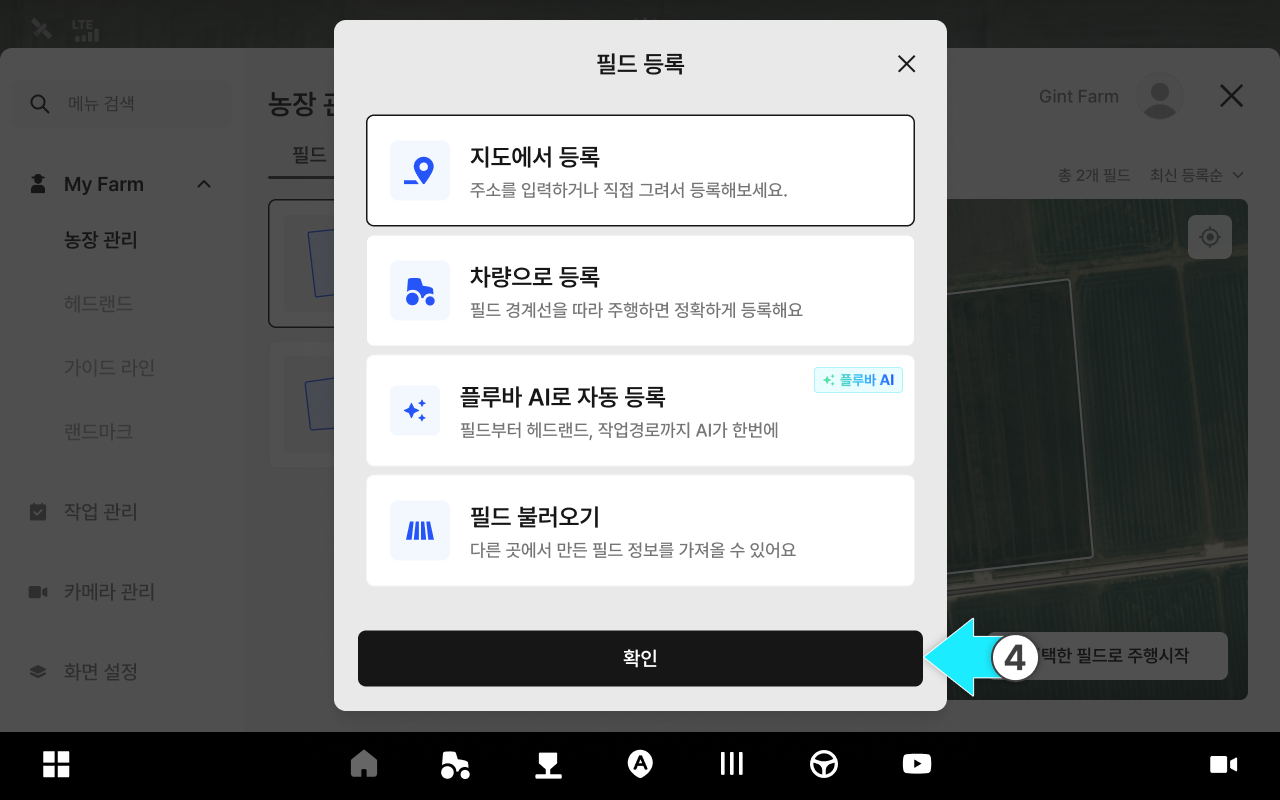
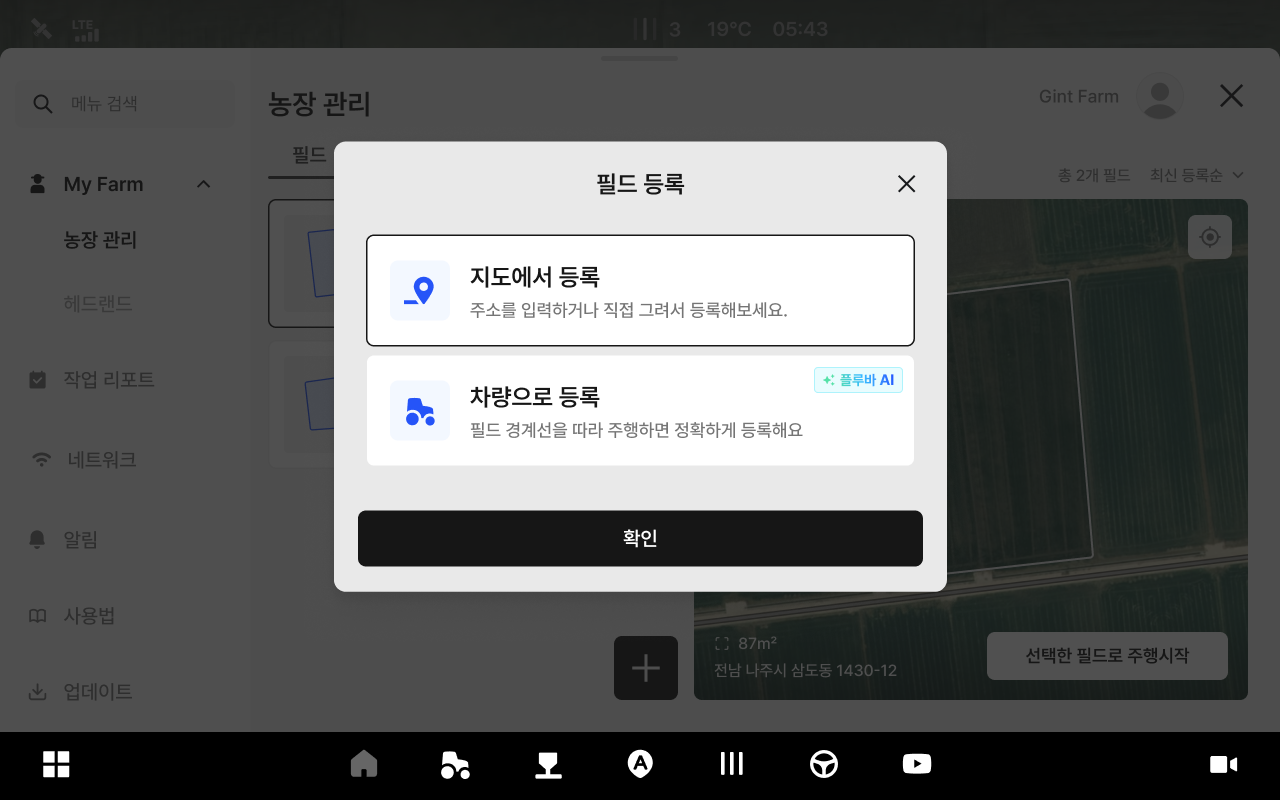
GITBOOK-17: No subject

diff --git a/ion-servicemanual-kr/order-installation/quick-setup/farm-setting.md b/ion-servicemanual-kr/order-installation/quick-setup/farm-setting.md
@@ -75,15 +75,27 @@ metaLinks:
 {% endstep %}
 
 {% step %}
+옵션을 선택한 후 \[확인]을 누릅니다.
+
+<figure><img src="../../.gitbook/assets/field-registration-4.png" alt=""><figcaption></figcaption></figure>
+{% endstep %}
+{% endstepper %}
+
+***
+
+#### 지도에서 등록
+
+{% stepper %}
+{% step %}
 지도에서 등록 옵션을 선택한 후 \[확인]을 누릅니다.
 
-<figure><img src="../../.gitbook/assets/quick-add-field-2.png" alt=""><figcaption></figcaption></figure>
+<figure><img src="../../.gitbook/assets/map-registration-1.png" alt=""><figcaption></figcaption></figure>
 {% endstep %}
 
 {% step %}
 지도에서 필드를 선택합니다.
 
-<figure><img src="../../.gitbook/assets/quick-add-field-3.png" alt=""><figcaption></figcaption></figure>
+<figure><img src="../../.gitbook/assets/map-registration-2.png" alt=""><figcaption></figcaption></figure>
 
 {% hint style="info" %}
 기본 필드 등록은 \[지도에서 선택]으로 설정되어 있습니다. 경계를 직접 만들려면 \[직접 그리기]를 누릅니다.
@@ -93,16 +105,18 @@ metaLinks:
 {% step %}
 경계 생성 후 \[진입로 설정]을 누른 다음, 원하는 위치를 선택합니다.
 
-<figure><img src="../../.gitbook/assets/quick-add-field-4.png" alt=""><figcaption></figcaption></figure>
+<figure><img src="../../.gitbook/assets/map-registration-3.png" alt=""><figcaption></figcaption></figure>
+
+<figure><img src="../../.gitbook/assets/map-registration-3 (1).png" alt=""><figcaption></figcaption></figure>
 {% endstep %}
 
 {% step %}
 진입출로 위치 설정 팝업에서 \[같은 위치로 설정]을 선택합니다.
 
-<figure><img src="../../.gitbook/assets/quick-add-field-5.png" alt=""><figcaption></figcaption></figure>
+<figure><img src="../../.gitbook/assets/map-registration-4.png" alt=""><figcaption></figcaption></figure>
 
 {% hint style="info" %}
-진입/진출 위치가 다를 경우 \[진출로 따로 설정]을 선택합니다.
+\[진출로 따로 설정]을 선택한 경우, 진입/진출 위치를 각각 지정해야 합니다.
 
 <img src="../../.gitbook/assets/select-path-entry.png" alt="" data-size="original">
 {% endhint %}
@@ -111,17 +125,15 @@ metaLinks:
 {% step %}
 진출입로 설정이 완료되고 필드 정보를 입력한 뒤 \[등록]을 누릅니다.
 
-<figure><img src="../../.gitbook/assets/quick-add-field-6.png" alt=""><figcaption></figcaption></figure>
+<figure><img src="../../.gitbook/assets/map-registration-5.png" alt=""><figcaption></figcaption></figure>
 {% endstep %}
 
 {% step %}
 필드 등록이 완료됩니다.
 
-<figure><img src="../../.gitbook/assets/quick-add-field-7.png" alt=""><figcaption></figcaption></figure>
+<figure><img src="../../.gitbook/assets/map-registration-6.png" alt=""><figcaption></figcaption></figure>
 {% endstep %}
 {% endstepper %}
-
-***
 
 #### 지도에서 필드 등록 화면 설명
 
@@ -129,25 +141,25 @@ metaLinks:
 
 ![](../../.gitbook/assets/icon-square-1.svg) **주소 검색으로 필드 선택**
 
-*   주소를 검색하여 필드를 선택합니다. <br>
+* 주소 검색으로 필드를 선택합니다.
 
-    <figure><img src="../../.gitbook/assets/field-registration-screen-1.png" alt=""><figcaption></figcaption></figure>
+<div align="left"><figure><img src="../../.gitbook/assets/field-registration-screen-1.png" alt="" width="563"><figcaption></figcaption></figure></div>
 
 ![](../../.gitbook/assets/icon-square-2.svg) **직접 그리기**
 
-*   지도에 직접 점을 찍어 필드 영역을 생성합니다.<br>
+* 필드 영역을 직접 점을 찍어 생성합니다.
 
-    <figure><img src="../../.gitbook/assets/field-registration-screen-2.png" alt=""><figcaption></figcaption></figure>
+<div align="left"><figure><img src="../../.gitbook/assets/field-registration-screen-2.png" alt="" width="563"><figcaption></figcaption></figure></div>
 
-![](../../.gitbook/assets/icon-square-3.svg) **지도에서 선택**
+![](<../../.gitbook/assets/icon-square-3 (1).svg>) **지도에서 선택**
 
 * 지도에서 필드를 직접 눌러 선택합니다. \[지도에서 등록]이 기본으로 설정되어있습니다.
 
-![](../../.gitbook/assets/icon-square-4.svg) **이전**
+![](<../../.gitbook/assets/icon-square-4 (1).svg>) **이전**
 
 * 이전 단계로 돌아갑니다.
 
-![](../../.gitbook/assets/icon-square-5.svg) **다음**
+![](<../../.gitbook/assets/icon-square-5 (1).svg>) **다음**
 
 * 다음 단계로 넘어갑니다.
 
@@ -161,13 +173,14 @@ metaLinks:
 
 ![](../../.gitbook/assets/icon-square-8.svg) **진(출)입로 설정**
 
-* 진출입로 위치를 설정합니다. 필드를 선택한 후 해당 버튼을 사용할 수 있습니다. 진출입로는 같은 위치로 설정하거나, 각각 따로 설정할 수 있으며, 수정 버튼을 통해 위치를 변경할 수 있습니다.
+* 진출입로 위치를 설정합니다. 필드를 선택한 후 해당 버튼을 사용할 수 있습니다. 진출입로는 같은 위치로 설정하거나, 각각 따로 설정할 수 있으며, 수정 버튼을 통해\
+  위치를 변경할 수 있습니다.
 
 ![](../../.gitbook/assets/icon-square-9.svg) **경계 등록 완료**
 
 * 경계 등록을 완료합니다. 진출입로를 선택한 후 해당 버튼을 사용할 수 있습니다.
 
-***
+
 
 #### 지도에서 필드 등록 모달 설명
 
@@ -181,15 +194,125 @@ metaLinks:
 
 * 필드와 연결할 농장을 선택합니다.
 
-![](../../.gitbook/assets/icon-square-3.svg) **농장 소유자**
+![](<../../.gitbook/assets/icon-square-3 (1).svg>) **농장 소유자**
 
 * 필드와 연결할 농장 소유자를 선택합니다.
 
-![](../../.gitbook/assets/icon-square-4.svg) **작물**
+![](<../../.gitbook/assets/icon-square-4 (1).svg>) **작물**
 
 * 현재 필드에서 작업 중인 작물을 추가합니다.
 
-![](../../.gitbook/assets/icon-square-5.svg) **메모**
+![](<../../.gitbook/assets/icon-square-5 (1).svg>) **메모**
+
+* 추가적인 정보를 메모로 남깁니다.
+
+***
+
+#### 차량으로 등록
+
+차량을 직접 운전하여 필지 경계를 주행하면서 꼭지점을 설정하는 방법입니다. 지도에 표시되지 않은 필지나 경계가 불명확한 경우에 유용합니다.
+
+{% stepper %}
+{% step %}
+등록 옵션 선택 팝업에서 차량으로 등록을 선택하고 \[확인]을 누릅니다.
+
+<figure><img src="../../.gitbook/assets/field-add-vehicle-1 (1).png" alt=""><figcaption></figcaption></figure>
+{% endstep %}
+
+{% step %}
+차량으로 등록 화면에 진입합니다. 차량을 필드의 각 꼭지점으로 이동한 후 버튼을 눌러 점을 설정합니다.
+
+<figure><img src="../../.gitbook/assets/field-add-vehicle-2 (1).png" alt=""><figcaption></figcaption></figure>
+
+<figure><img src="../../.gitbook/assets/map-registration-3 (1).png" alt=""><figcaption></figcaption></figure>
+
+{% hint style="info" %}
+설정 직후 해당 점의 수정 버튼이 표시됩니다. 위치가 정확하지 않으면 수정 버튼으로 재설정합니다.
+{% endhint %}
+
+{% hint style="warning" %}
+꼭지점은 순서대로 설정해야 합니다. 임의의 순서로 설정하면 경계가 올바르게 생성되지 않습니다.
+{% endhint %}
+{% endstep %}
+
+{% step %}
+D점 이상 설정이 완료되면 차량을 진입출로 위치로 이동하고 진입로, 진출로 설정 버튼을 눌러 설정합니다.
+
+<figure><img src="../../.gitbook/assets/field-add-vehicle-3 (1).png" alt=""><figcaption></figcaption></figure>
+
+{% hint style="info" %}
+진출로는 작업 완료 후 차량이 빠져나가는 경로입니다. 나중에 수정할 수 있습니다.
+{% endhint %}
+
+{% hint style="info" %}
+점은 최대 6개 설정할 수 있습니다.
+{% endhint %}
+{% endstep %}
+
+{% step %}
+각 점과 진출로 설정이 완료되면 필드 등록 버튼이 활성화됩니다. **필드 등록**을 누릅니다.
+
+<figure><img src="../../.gitbook/assets/field-add-vehicle-4 (1).png" alt=""><figcaption></figcaption></figure>
+{% endstep %}
+
+{% step %}
+필드 정보 입력 화면에서 필지 이름, 농장, 작물 등을 입력합니다. **등록**을 누르면 필지 등록이 완료됩니다.
+
+<figure><img src="../../.gitbook/assets/field-add-vehicle-5 (1).png" alt=""><figcaption></figcaption></figure>
+{% endstep %}
+{% endstepper %}
+
+#### 화면 버튼 안내
+
+<figure><img src="../../.gitbook/assets/field-add-vehicle-screen-buttons-1 (1).png" alt=""><figcaption></figcaption></figure>
+
+![](../../.gitbook/assets/icon-square-1.svg) **미니맵**
+
+* 현재 등록 중인 필드 경계를 전체 화면으로 보여줍니다.
+
+![](../../.gitbook/assets/icon-square-2.svg) **진출로 설정**
+
+* 진출 경로 위치를 현재 차량 위치로 설정합니다.
+
+![](<../../.gitbook/assets/icon-square-3 (1).svg>) **필드 등록**
+
+* 모든 점 설정 완료 후 필지 등록 진행합니다.
+
+![](<../../.gitbook/assets/icon-square-4 (1).svg>) **나가기**
+
+* 등록을 중단하고 이전 화면으로 돌아갑니다.
+
+![](<../../.gitbook/assets/icon-square-5 (1).svg>) **수정**
+
+* 이미 설정한 꼭지점을 현재 위치로 업데이트합니다.
+
+![](../../.gitbook/assets/icon-square-6.svg) **A / B / C / D**
+
+* 해당 꼭지점을 현재 차량 위치로 설정합니다.
+
+
+
+#### 차량에서 필드 등록 모달 설명
+
+<div align="left"><figure><img src="../../.gitbook/assets/field-add-vehicle-register-modal-1 (1).png" alt="" width="350"><figcaption></figcaption></figure></div>
+
+![](../../.gitbook/assets/icon-square-1.svg) **필드 이름**
+
+* 대표로 표기할 필드 이름을 입력합니다.
+
+![](../../.gitbook/assets/icon-square-2.svg) **농장**
+
+* 필드와 연결할 농장을 선택합니다.
+
+![](<../../.gitbook/assets/icon-square-3 (1).svg>) **농장 소유자**
+
+* 필드와 연결할 농장 소유자를 선택합니다.
+
+![](<../../.gitbook/assets/icon-square-4 (1).svg>) **작물**
+
+* 현재 필드에서 작업 중인 작물을 추가합니다.
+
+![](<../../.gitbook/assets/icon-square-5 (1).svg>) **메모**
 
 * 추가적인 정보를 메모로 남깁니다.
 
@@ -200,8 +323,6 @@ metaLinks:
 **헤드랜드는 무엇인가요?**
 
 > 헤드랜드는 필드 가장자리에서 안전하게 회전하거나 작업기를 조작할 수 있도록 확보하는 여유 구간입니다.  필드 경계에서 설정한 거리만큼 안쪽으로 만들어지며, 작업 환경에 맞춰 폭(거리)을 조정할 수 있습니다.
-
-***
 
 #### 헤드랜드 등록 진입
 

diff --git a/ion-servicemanual-kr/usage/driving/cross-path.md b/ion-servicemanual-kr/usage/driving/cross-path.md
@@ -78,9 +78,9 @@ A, B, C, D 포인트를 설정하는 것은 작업할 영역의 경계(바운더
 
 아래 표시 형식에 따라 기준변 상태를 구분합니다.
 
-* **선택 가능:**&#x20;
-* **선택 불가능:**&#x20;
-* **선택 됨:**&#x20;
+* **선택 가능:** ![](../../.gitbook/assets/path-default.png)
+* **선택 불가능:** ![](../../.gitbook/assets/path-disabled.png)
+* **선택 됨:** ![](../../.gitbook/assets/path-selected.png)
 {% endhint %}
 
 {% hint style="info" %}
